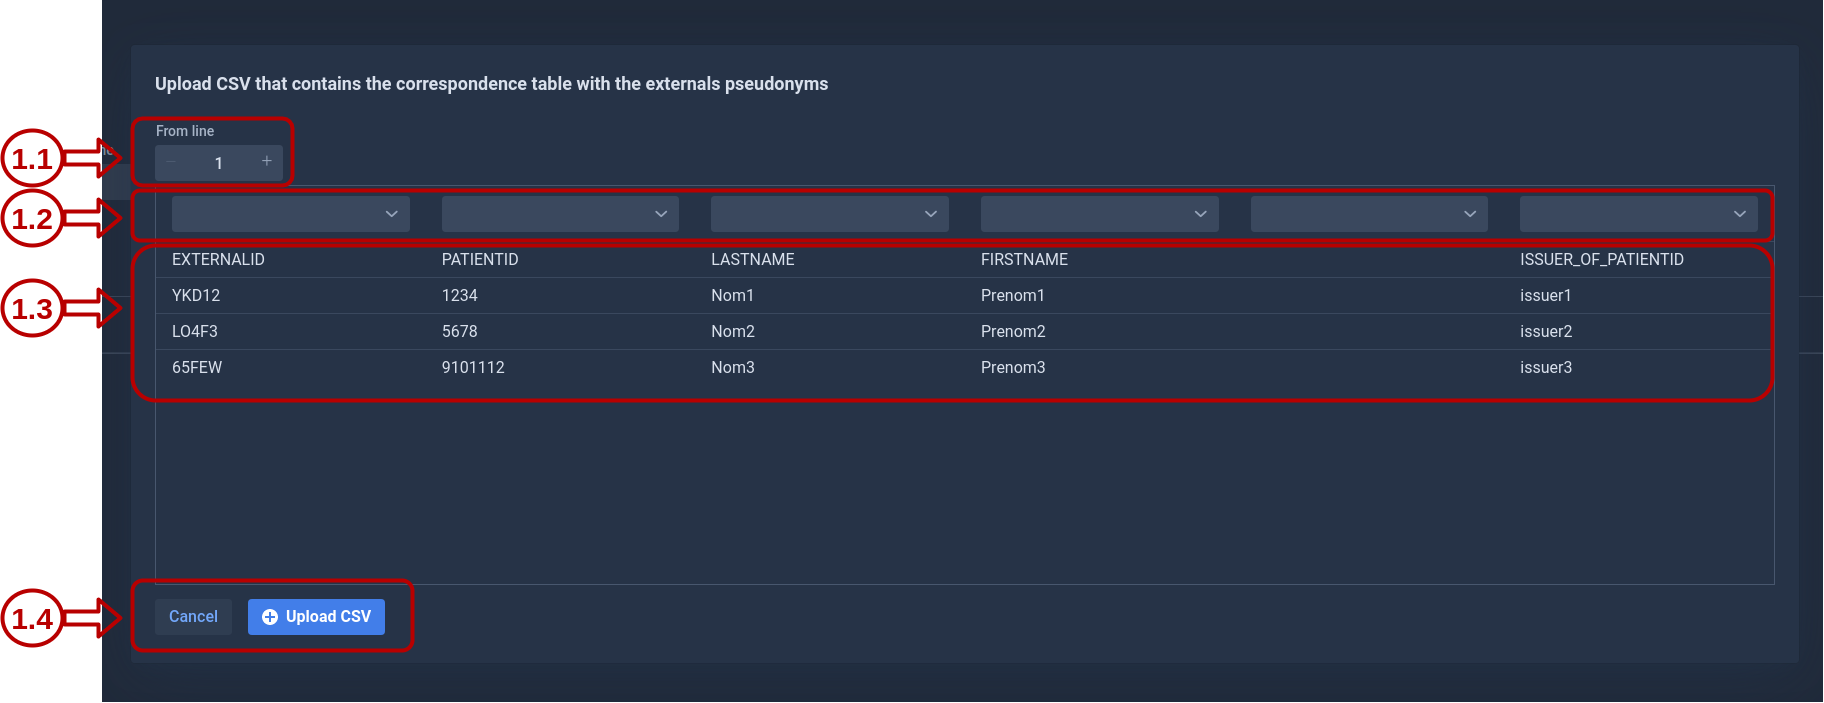
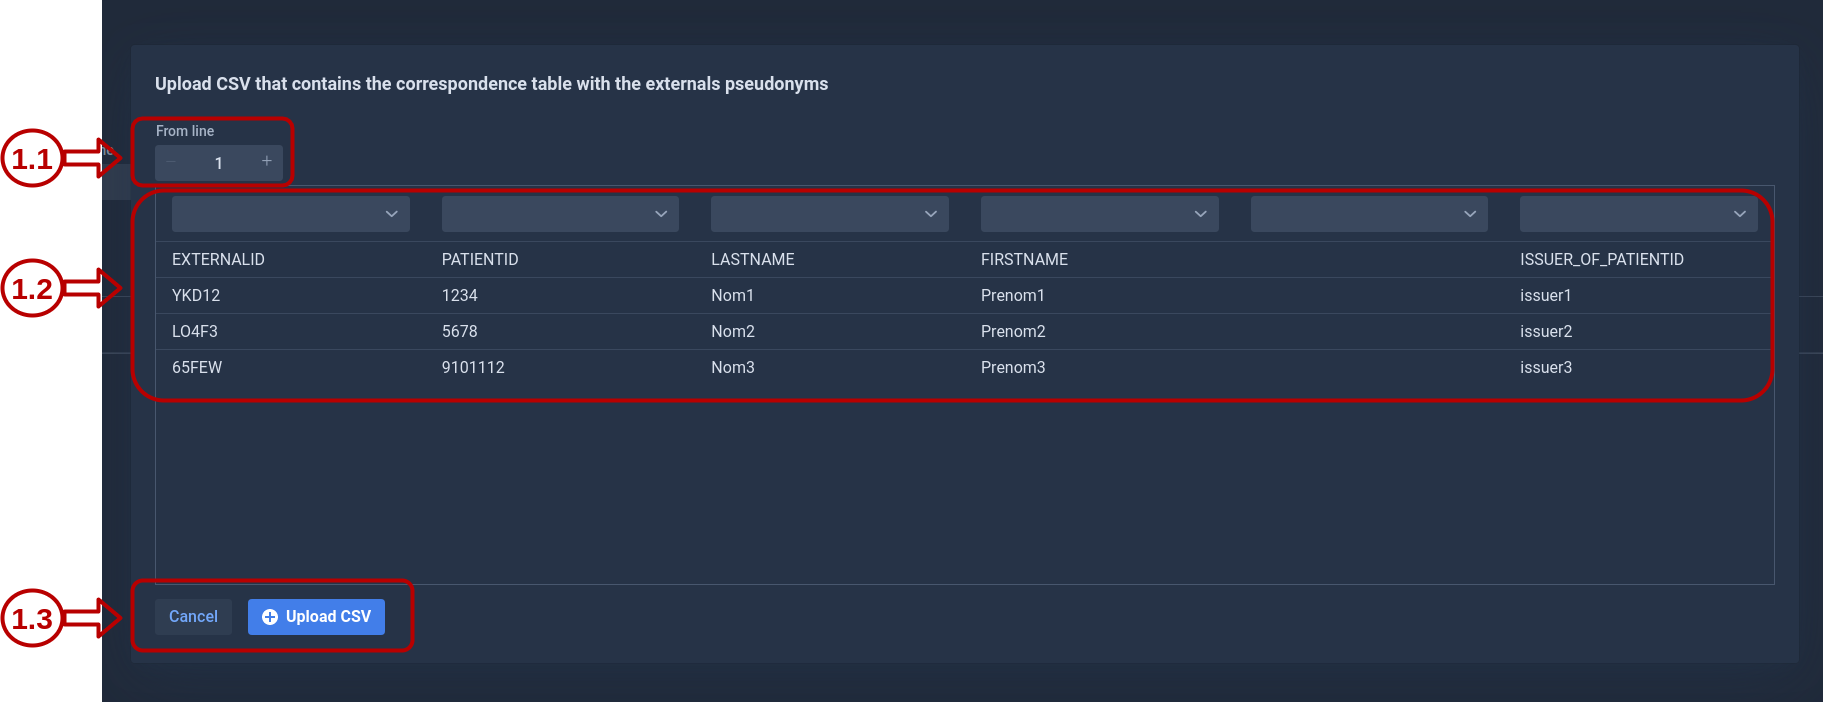
update external pseudonym page

diff --git a/docs/userguide/userguide_extpseudo.md b/docs/userguide/userguide_extpseudo.md
@@ -31,15 +31,17 @@ After click "Open CSV" button, a grid will be appear with the CSV file content.
 
 This input field allows you to indicate from which line you want to start reading the CSV file. Your CSV file may contain headers. If these headers are in line 1 like the above example (EXTERNALID, PATIENTID, LASTNAME, FIRSTNAME, ISSUER_OF_PATIENTID), you can specify the entry "From line" to the value 2. 
 
-![External pseudonym CSV Dialog](resources/external_pseudonym_csvdialog2.gif)
+![External pseudonym CSV Dialog 2](resources/external_pseudonym_csvdialog2.gif)
 
-### 1.2 Select 
+### 1.2 Columns assignements 
 
-All the fields are mandatory, excepted the Issuer of patient ID.
+Fill in the correct fields with the corresponding columns. All the fields are mandatory, excepted the Issuer of patient ID.
 
-### 1.3 Grid
+![External pseudonym CSV Dialog](resources/external_pseudonym_csvdialog3.gif)
 
-### 1.4 Upload CSV
+### 1.3 Upload CSV
+
+Click to the "Upload CSV" button to validate the fields with the correct columns to store the externals pseudonyms in KARNAK.
 
 ### 2. Add a new patient
 
